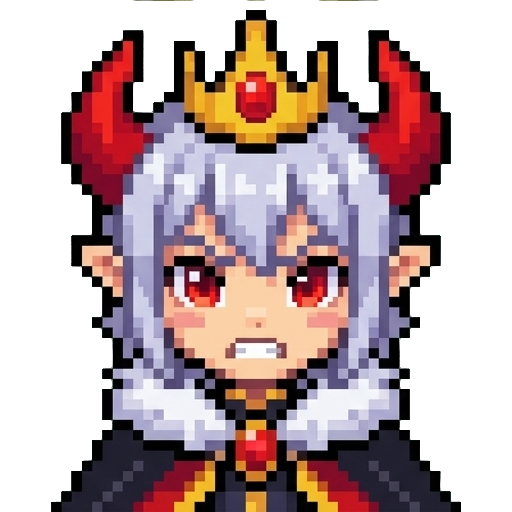
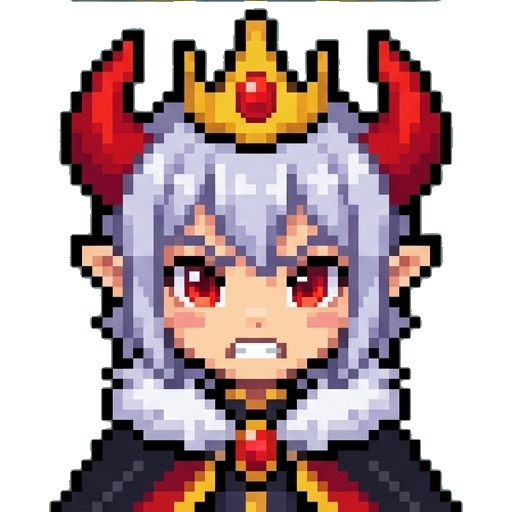
地脈迷宮ビルダーズ: 勇者数の増え方を案B（加速する曲線）に変更、魔王の顔画像を新しい透過版に差し替え
- heroCountForStage: 2n（線形）→ 2n + round(0.5×(n-1)²)。ステージ1~7で2,5,8,13,18,25,32（合計103）。
  部屋を増やすほど迷宮側が複利的に強くなるのに対し、勇者側は一定増分だったバランスを調整。

- images/kao/maou1_transparent.png（ユーザー提供の透過済み4表情シート）を取り込み。冠・角の上部の縁に
  半透明(alpha127)の緑かぶりが残っていたため、同じ緑除去処理をかけてからmaou1_normal/smile/angry/cry.pngを
  差し替えた。旧maou1.png（緑背景の元画像）はmaou1_transparent.pngに役目を譲ったため削除。
  story_test.htmlはファイル名を変えていないので変更不要。

diff --git a/ChimyakuDungeon/index.html b/ChimyakuDungeon/index.html
@@ -5598,10 +5598,10 @@ function trapAffectedCells(trap, room){
 // ============================================================
 const STAGE_FINAL = 7; // 最終侵攻。ここの勇者を倒すとゲームクリア
 // ステージごとの勇者の総数（侵攻が進むほど増える）。1ターンに4体ずつ、この人数に達するまで入ってくる
-// ステージ数nに対して2n人（ステージ1で2人、ステージ10で20人）
-const HEROES_PER_WAVE = 4;
-const WAVE_INTERVAL_TICKS = 12; // 次の4体が入ってくるまでのtick数（暫定値。1tickは行動1回分の間隔）
-function heroCountForStage(stageNum){ return 2 * stageNum; }
+// 部屋を増やすほど迷宮側の強さ（モンスター数・生産力）が複利的に伸びる一方、勇者数を一定の+2ずつにすると
+// 終盤に迷宮側との差が開きすぎるため、増分自体が後半ほど大きくなる式にしてある（案B）。
+// ステージ数nに対して 2n + round(0.5×(n-1)²) 人（ステージ1で2人、ステージ7で32人、7ステージ合計103人）
+function heroCountForStage(stageNum){ return 2*stageNum + Math.round(0.5*(stageNum-1)*(stageNum-1)); }
 // 勇者のクラス定義。
 // tierStart/tierEndは侵攻1・侵攻7でのステータス（1〜10ランク値、モンスターと同じtierStats換算を使う）。
 // 中間の侵攻は線形補間する（lerpHeroTierを参照）。役割(role)は近接/中距離/遠距離の立ち回りを決める。
